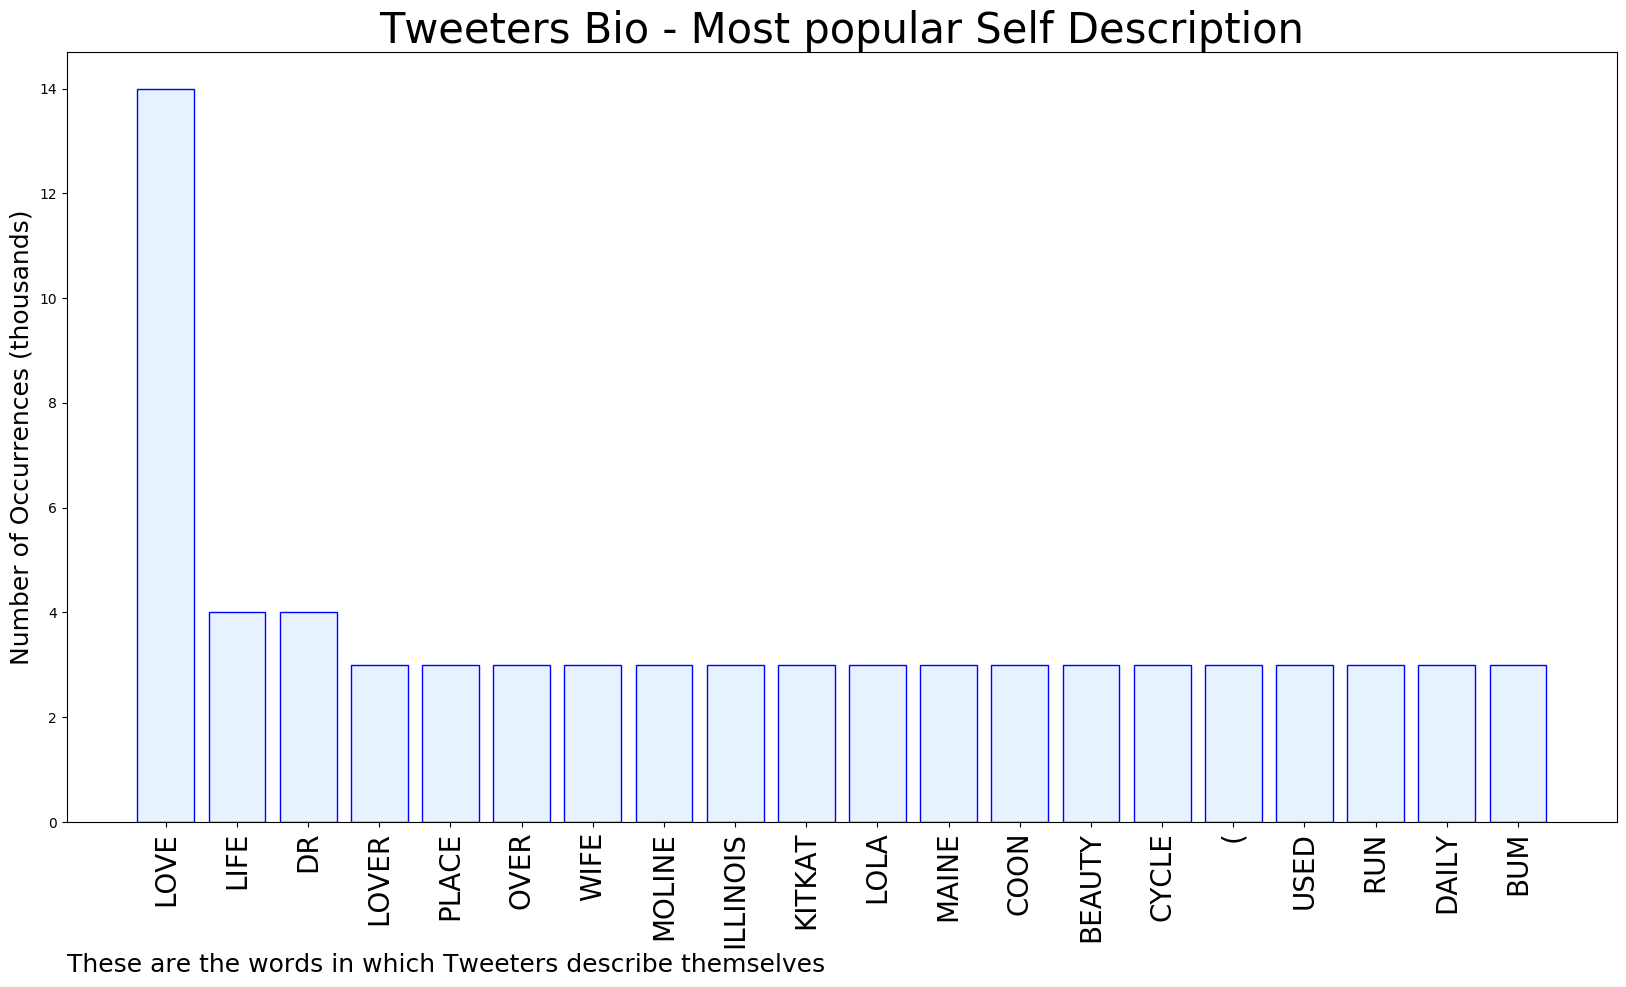
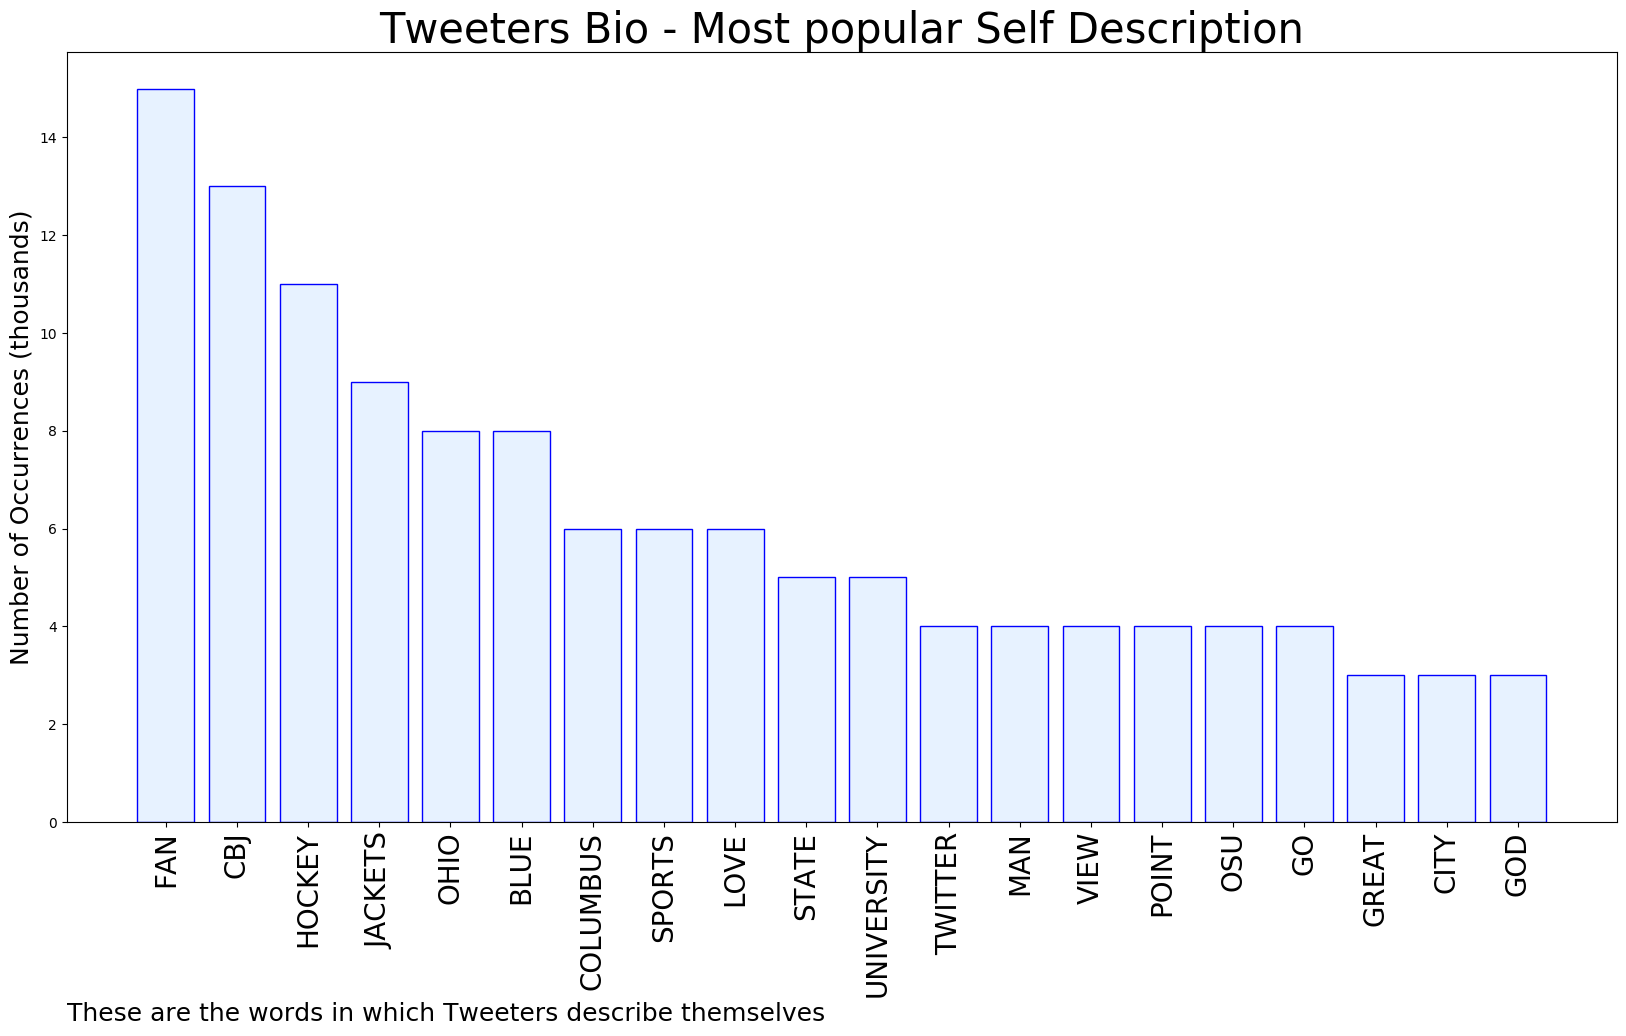
Updating with latest report

diff --git a/README.md b/README.md
@@ -1,5 +1,5 @@
 # MURCHIE85 TWITTER PROCESSING 
-&#x1F34E; **TOPIC = "TheEllenShow"**
+&#x1F34E; **TOPIC = "#Jackets50"**
 
 ## AUTOMATED RESEARCH SUMMARY
 
@@ -15,17 +15,17 @@
 
 |                **Sample-Tweets**        |
 | :-------------: |
-| <div class="alert alert-block alert-warning">RT @TheEllenShow: The entire internet is doing a dance called The Renegade, and the 14-year-old who invented it is here today. Please welco…</div> <div class="alert alert-block alert-success">RT @TheEllenShow: We’re back! #FriendsReunion https://t.co/kzUrMsACMe</div> <div class="alert alert-block alert-info">@TheEllenShow Girl power https://t.co/EgKN7rA57A</div> |
-The most popular user is: **jesscrumpetcake**
-<div class="alert alert-block alert-danger"> RT @TheEllenShow: We’re back! #FriendsReunion https://t.co/kzUrMsACMe</div>
+| <div class="alert alert-block alert-warning">#Jackets50 Robinson 50</div> <div class="alert alert-block alert-success">@BlueJacketsNHL @PapaJohnsCbus Nyquist #CBJ #Jackets50</div> <div class="alert alert-block alert-info">@BlueJacketsNHL @PapaJohnsCbus David Savard #Jackets50</div> |
+The most popular user is: **NickSarfaty500**
+<div class="alert alert-block alert-danger"> RT @BlueJacketsNHL: Don't miss your chance to win FREE @PapaJohnsCbus pizza! Tweet who you think will score the second #CBJ goal with #Jack…</div>
 
 ## RELATED METRICS<br>
 | Metric | Value |
 | ------------- | ------------- |
-| #1 Most tweeted to  | **TheEllenShow** |
-| #2 Most tweeted to  | **Diddy** |
-| #3 Most tweeted to  | **Oprah** |
-| NewProfiles (less than 10 days) | 3.0%  |
+| #1 Most tweeted to  | **BlueJacketsNHL** |
+| #2 Most tweeted to  | **PapaJohnsCbus** |
+| #3 Most tweeted to  | **BluelineOnline** |
+| NewProfiles (less than 10 days) | 0.0%  |
 | Tweeters with < 10 followers  | 11.0%|
 | Tweeters with > 1000000 followers  | 0.0%  |
 
@@ -36,28 +36,28 @@ The most popular user is: **jesscrumpetcake**
 
 | Popularity Rank  | Term |
 | ------------- | ------------- |
-| first  | **@THEELLENSHOW:**  |
-| second  | **@THEELLENSHOW**  |
-| third  | **WE’RE** |
-| fourth  | **BACK!**  |
-| fifth  | **FRIENDSREUNION**  |
+| first  | **@PAPAJOHNSCBUS**  |
+| second  | **JACKETS50@BLUEJACKETSNHL**  |
+| third  | **JACKETS50** |
+| fourth  | **CBJ**  |
+| fifth  | **GOAL**  |
 
 
 ## Twitter Bio Analysis![image](BIO.png)
 ### SENTIMENT ANALYSIS
 ![image](sentiment.png)
-VIEWS WERE : **SUBJECTIVE**  (46.67%) & **NEGATIVELY-SUBJECTIVE** (6.67%) **OBJECTIVE** (46.67%)
+VIEWS WERE : **SUBJECTIVE**  (6.67%) & **NEGATIVELY-SUBJECTIVE** (6.67%) **OBJECTIVE** (86.67%)
 
 ### TWEET SAMPLE 
 Random value picked from array: 
 
-<div class="alert alert-block alert-info">RT @TheEllenShow: The entire internet is doing a dance called The Renegade, and the 14-year-old who invented it is here today. Please welco…</div>
+<div class="alert alert-block alert-info">#Jackets50 Robinson 50</div>
 
 ### MOST RETWEETED 
 
-The most retweeted user is: **jesscrumpetcake**
+The most retweeted user is: **NickSarfaty500**
 
-<div class="alert alert-block alert-danger"> RT @TheEllenShow: We’re back! #FriendsReunion https://t.co/kzUrMsACMe</div>
+<div class="alert alert-block alert-danger"> RT @BlueJacketsNHL: Don't miss your chance to win FREE @PapaJohnsCbus pizza! Tweet who you think will score the second #CBJ goal with #Jack…</div>
 
 ### CONCLUSION & EXTERNAL ANALYSIS
 
